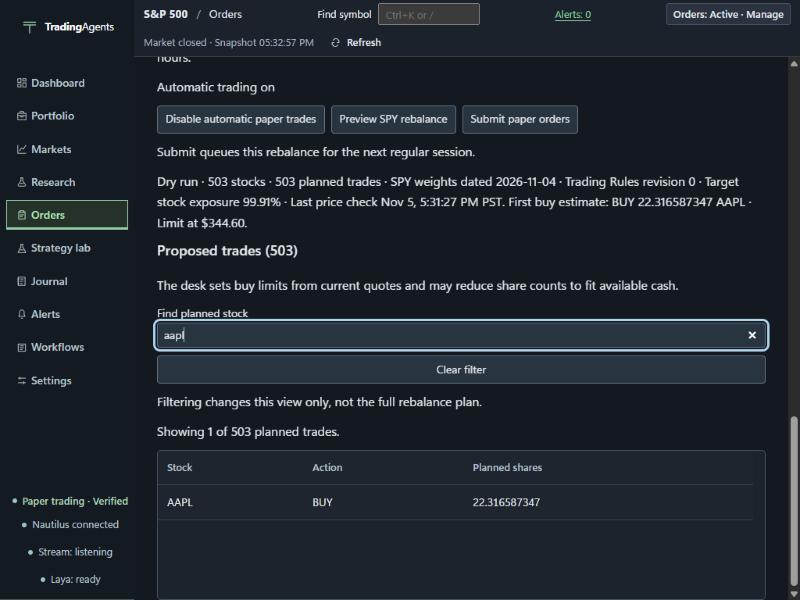
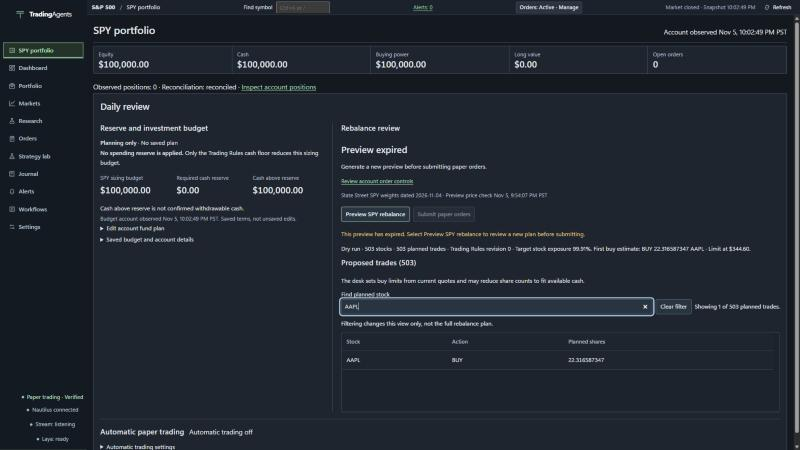
Group SPY preview search controls above the trade table
Preserve full-plan filtering, keyboard focus, scroll and submission guards. Record independent review and real 1080p evidence; refresh the guide capture and affected operating reference.

diff --git a/tradingagents/web/static/app.js b/tradingagents/web/static/app.js
@@ -3296,9 +3296,10 @@ function spyRebalanceMarkup(){
   (preview?.policyBlockers.length?'<details id="spy-rule-blockers" open><summary>Trading Rules block submission</summary><ul>'+preview.policyBlockers.map(reason=>'<li>'+esc(reason)+'</li>').join('')+'</ul></details>':'')+
   (preview?.trades.length?'<h3>Proposed trades ('+esc(preview.trades.length)+')</h3>'+
    '<p>The desk sets buy limits from current quotes and may reduce share counts to fit available cash.</p>'+
-   '<label for="spy-trade-query">Find planned stock<input id="spy-trade-query" type="search" data-list-query="spy-preview" value="'+esc(spyTradeQuery)+'" placeholder="Symbol, such as AAPL" aria-describedby="spy-trade-scope spy-trade-count"></label>'+
-   '<button id="spy-trade-clear" type="button">Clear filter</button><p id="spy-trade-scope">Filtering changes this view only, not the full rebalance plan.</p>'+
-   '<p id="spy-trade-count" role="status">Showing '+rows.count+' of '+preview.trades.length+' planned trades.</p>'+
+   '<div class="spy-trade-toolbar"><label for="spy-trade-query">Find planned stock<input id="spy-trade-query" type="search" data-list-query="spy-preview" value="'+esc(spyTradeQuery)+'" placeholder="Symbol, such as AAPL" aria-describedby="spy-trade-scope spy-trade-count"></label>'+
+   '<button id="spy-trade-clear" type="button">Clear filter</button>'+
+   '<p id="spy-trade-count" role="status">Showing '+rows.count+' of '+preview.trades.length+' planned trades.</p></div>'+
+   '<p id="spy-trade-scope">Filtering changes this view only, not the full rebalance plan.</p>'+
    '<div class="table-scroll spy-preview-trades" role="region" aria-label="Proposed SPY trades" tabindex="0"><table class="data-table">'+
    '<thead><tr><th scope="col">Stock</th><th scope="col">Action</th><th scope="col">Planned shares</th></tr></thead><tbody id="spy-trade-rows">'+rows.markup+'</tbody></table></div>':'')+
   '</section></div><section class="spy-automatic" aria-labelledby="spy-automatic-heading"><div class="spy-automatic-status"><h3 id="spy-automatic-heading">Automatic paper trading</h3><p role="status">'+esc(status)+'</p></div>'+

diff --git a/tradingagents/web/static/ui-orders.css b/tradingagents/web/static/ui-orders.css
@@ -76,7 +76,10 @@
 #universe-review .spy-source-note{color:var(--muted);font-size:var(--text-meta)}
 .spy-manual-review .spy-preview-trades{max-height:32rem;flex:none!important}
 .spy-manual-review>.basket-actions{margin-block:var(--space-2)}
-.spy-manual-review>#spy-trade-clear{align-self:flex-start}
+.spy-trade-toolbar{display:flex;align-items:end;flex-wrap:wrap;gap:var(--space-2)}
+.spy-trade-toolbar label{flex:1;min-width:0;margin:0}
+#universe-review .spy-trade-toolbar input{min-height:var(--control-height)!important}
+#universe-review .spy-trade-toolbar>p{display:flex;align-items:center;min-height:var(--control-height);font-size:var(--text-ui);margin:0!important}
 .spy-automatic{padding-top:var(--space-4);border-top:1px solid var(--line)}
 .spy-automatic-status{display:flex;align-items:baseline;flex-wrap:wrap;gap:var(--space-3)}
 .spy-automatic-status h3{margin:0}

diff --git a/docs/issues/2026-11-05-dogfood-spy-preview-toolbar.md b/docs/issues/2026-11-05-dogfood-spy-preview-toolbar.md
@@ -1,0 +1,55 @@
+# Dogfood: compact SPY proposed-trade review controls
+
+Status: complete for the scoped toolbar improvement, independently source-reviewed and observed on the real development desk at 1920 × 1080. No paper trades are authorized.
+
+## Observation and scope
+
+Baseline `a98afa6` on `nautilus`. The current loop brief and completed overview/account-exception items were read first; those checkpoints were not repeated. An actual retained, expired 503-trade preview placed search at y719.84, Clear at 761.84, scope text at 807.84, count at 842.94 and the table at 876.03. Stacked controls left little first-view room for proposed trades.
+
+One bounded item: group existing search, Clear and matching count immediately above the full table, keeping the scope explanation and material warnings visible. Preserve IDs, labels, native focus, bindings, full trades, table scrolling, financial math, preview identity/lifetime, authority and all workspaces. Primary owns edits and actual browser checks. No new backend, data, metrics, colors or smaller-layout work.
+
+Installed Impeccable Operate/layout guidance and the craft floor informed implementation; primary context had already run once. Reused the qualified official [Fidelity Positions research](https://www.fidelity.com/trading/trader-desktop-user-guide/positions) recorded in the [read-first issue](2026-11-05-dogfood-spy-read-first-overview.md#independent-upstream-research): group view controls directly above tabular evidence. This is an adapted grouping principle, not broker operation or feature parity. No new critique or score.
+
+## Implementation and independent scrutiny
+
+Layout assessment `wf_d75351b6-3c9` inspected the real supplied capture and adjacent source. It identified the vertical control stack as the material in-scope friction. Primary's baseline and post-change scoped layout detectors returned no findings; neither empty detector output nor source review establishes rendered acceptance.
+
+The toolbar is a wrapping flex row. Search takes remaining width; Clear and the live count align to the existing 36px control token. The unchanged view-only explanation follows, then the complete table. Existing control IDs, accessible label/descriptions, keyboard sequence, delegation and query retention remain. Removed the obsolete direct-child Clear rule. No paragraph caps or authority/financial changes.
+
+Fresh source review `wf_c6296851-fc5` found no actionable issue at:
+
+- `app.js`: `a05513312d8f126de53b89c039d7863900f185fa`
+- `ui-orders.css`: `e1a17a1a48fdfd310b023fefa1da32101b134273`
+
+The reviewer inspected primary and legacy SPY entries, filter/render/focus contracts, count/no-match behavior, table scroll and preview/authority predicates. It did not perform browser acceptance. Primary inspected the exact source diff and confirmed the scope remains grouping and alignment only.
+
+## Affected real-browser evidence
+
+Normal development URL on 8099; inspected actual viewport **1920 × 1080**. Normal source reload discarded the old session-only preview. One actual dry-run Preview generated a populated view; no preview, event, clock or account state was injected.
+
+| Path | Actual observation |
+| --- | --- |
+| Populated review | 503 planned trades. Search, Clear and count aligned at y717.84–753.84, all 36px high; search about 730px wide. Count and scope explanation remained visible. Table began at y796.94 and retained its 512px bounded scroll region. No horizontal page overflow. |
+| Native AAPL search | One actual AAPL BUY row, 22.316587347 shares; count **Showing 1 of 503 planned trades**. Filtering did not change the full plan. |
+| Ordinary update | Stored old root became disconnected; the same search input remained connected and focused, with AAPL and 1 of 503 retained. No forced replacement/event. |
+| Natural expiry | Status became **Preview expired**, Submit disabled, plan and search remained readable. Returned weights date 2026-11-04 and price-check time 5 November 2026 at 21:54:07 PST remained visible. No refresh merely for an image. |
+| Keyboard Clear | Native Tab reached `spy-trade-clear`; Enter cleared the query, restored all 503 rows/count, reset table scroll 0 and returned focus to `spy-trade-query`. Expired status/disabled Submit and automatic trading off remained. |
+| Native table scroll | A wheel action's immediate same-batch sample preceded wheel processing and reported 0; it is not a pass. Settled inspection showed scrollTop 500 with BRK.B/JPM/MU at the top, all 503 rows retained and main scroll 0. Both stored old root and table panel were disconnected, establishing retained table position through ordinary replacement. |
+
+The baseline was expired while the initial new sample was current. Geometry is qualified layout evidence, not an identical-state expiry comparison, benchmark or performance claim. The final real filtered capture shows natural expiry rather than concealing it.
+
+No approval, submission, cancel/replace, pause/resume, standing-authority change, fund save, research/model/simulation job, automated test/mock, package/build, new server, credential/private configuration read or production operation. Submit was enabled by the existing gate before expiry, never activated. Automatic trading stayed off. No-match, unavailable, blocked, empty/no-trade and alternate-entry states were source-reviewed, not newly live-exercised; prior observations are not silently promoted.
+
+## Guide, preservation and decision
+
+Updated the platform reference and affected operating reference. The installed reference matched its full tracked HEAD baseline after normalizing only CRLF; copied only that file and verified byte-for-byte. No installed-only change was overwritten.
+
+Raw ignored evidence in `.local-workspace/dogfood-20261105/`:
+
+- `spy-preview-toolbar-before-1080p.jpg`
+- `spy-preview-toolbar-full-after-1080p.jpg`
+- `spy-preview-toolbar-aapl-after-1080p.jpg`
+
+Promoted the filtered capture unchanged to `docs/images/spy-rebalance-preview.jpg`: actual 1920 × 1080, Browser-rendered 800 × 450, blob `9ad8fab692e13be91acacdc78f06b2c7d70a1966`, byte-identical to raw evidence and no EXIF/XMP/IPTC/comment segment. Primary inspected visible privacy: no account identifier, credential, private note or unrelated desktop. Real quantities, dates, expiry and disabled Submit are not repainted. Updated image provenance; the existing README caption still matches, so foreign README edits remain untouched.
+
+Application delta: **8 added/4 removed lines** across JavaScript/CSS; zero backend/test changes. JavaScript syntax and whitespace checks passed. Primary decision: accept this complete scoped toolbar batch on the independently reviewed source and observed affected paths, not full SPY release, broker execution or return parity. Commit locally on `nautilus`, no push. Preserve/exclude unrelated `README.md`, `docs/dogfood-loop.md` and deletion of `docs/issues/dogfood-loop-ledger.md`.

diff --git a/docs/images/README.md b/docs/images/README.md
@@ -9,41 +9,56 @@ no values or states were repainted.
 | Image | Captured | Source revision / viewport | What it demonstrates |
 | --- | --- | --- | --- |
 | `research-review.jpg` | 5 November 2026 | `753df7a`; 1024 × 768 browser viewport, 800 × 600 image | AAPL inspection, search separate from batch selection, result-status filters and coverage gaps |
-| `spy-rebalance-preview.jpg` | 5 November 2026 | `38b94f1`; 1024 × 768 browser viewport, 800 × 600 image | A real 503-trade preview with a view-only AAPL filter showing one row |
+| `spy-rebalance-preview.jpg` | 5 November 2026 | Based on `a98afa6`, app `a05513312d8f126de53b89c039d7863900f185fa`, CSS `e1a17a1a48fdfd310b023fefa1da32101b134273`; actual 1920 × 1080, 800 × 450 Browser capture | Compact search/Clear/count toolbar, one AAPL row from the complete 503-trade plan, naturally expired preview |
 | `spy-fund-plan.png` | 5 November 2026 | `7df8b5b`, app blob `5e9b27533a4498f94af9b65629556c4c5b8114c3`; real 1920 × 1080 viewport, 706 × 153 detail image | Compact reserve/SPY budget, secondary editing/details and native keyboard focus |
 | `spy-portfolio.jpg` | 5 November 2026 | Based on `f112f77`, app `96c3d807ff0e45e65be6a559041191d6c47c8f45`, command controls `29cf7f519a5a28b1acdcef73bc92e496a66ba4a4`; real 1920 × 1080 viewport, 800 × 450 Browser capture | Clear-state SPY review and the new account-control handoff link; no blocked state is pictured |
 
+`spy-rebalance-preview.jpg` is an unchanged full Browser screenshot. The actual
+page viewport was 1920 × 1080; the tool rendered 800 × 450. AAPL filtering shows one
+matching row without changing the 503-trade plan. The preview naturally expired
+while the affected check continued: its dates, expiry message and disabled Submit
+remain visible. Automatic trading is off. No preview was regenerated merely to
+stage this image. It matches ignored `spy-preview-toolbar-aapl-after-1080p.jpg`
+byte-for-byte, has no EXIF/XMP/IPTC/comment segment and Git blob
+`9ad8fab692e13be91acacdc78f06b2c7d70a1966`. Primary inspected visible privacy.
+The previous smaller-viewport, automatic-on preview remains historical raw evidence,
+not the current guide image.
+
 `spy-portfolio.jpg` is an unchanged full Browser screenshot from the accepted
 clear-state account-exception overview, not a cropped smaller layout. Its actual viewport
-was 1920 × 1080; the tool rendered it at 800 × 450. Fund and automatic settings
+was 1920 × 1080; the tool rendered 800 × 450. Fund and automatic settings
 are closed, automatic trading is off and Submit is disabled. The selected JPEG
 matches the ignored raw file byte-for-byte and has no EXIF/XMP/IPTC segment. Its
 Git blob is `c3387d93be9522ffc16be6736426f866dc5ddc95`. Primary inspected the
-visible image: no account identifier, credential, private note or unrelated
-desktop content. This is scoped overview evidence, not broker acceptance,
+visible image. This is scoped overview evidence, not broker acceptance,
 full-journey acceptance or return parity.
 
-The first two images predate the user's 1080p-only direction. They remain historical
-workflow examples, not acceptance evidence for smaller layouts going forward.
-The new detail image was captured with the Browser tool's region capture from the
-rendered 800 × 450 pane image: region (90, 42)–(796, 195). The actual page viewport
-remained 1920 × 1080. The crop removes surrounding navigation and blank space, not
-information inside the fund-plan section; it is not a smaller responsive layout.
+Only `research-review.jpg` remains a historical smaller-viewport example predating
+the user's 1080p-only direction. It is not acceptance evidence for smaller layouts
+going forward. The fund-plan detail image was captured with the Browser tool's
+region capture from the rendered 800 × 450 pane image: region (90, 42)–(796, 195).
+The actual page viewport remained 1920 × 1080. The crop removes surrounding navigation
+and blank space, not information inside the fund-plan section; it is not a smaller
+responsive layout.
 
-`spy-rebalance-preview.jpg` shows the pre-existing **Automatic trading on** state.
-`spy-fund-plan.png` shows the later **Automatic trading off** state. Neither capture
-enabled, disabled, approved, submitted or executed anything. The preview image is
-not broker acceptance; the fund-plan image is not a performance or return-parity claim.
+The selected SPY images show **Automatic trading off**. Neither selecting images
+nor filtering, Clear or disclosures enabled authority, approved, submitted or
+executed anything. The current toolbar check generated one actual dry-run preview
+to exercise the changed controls after normal source reload. A preview is not broker
+acceptance, performance evidence or a return-parity claim.
 
 Original ignored evidence under `.local-workspace/dogfood-20261105/`:
 
 - `research-status-axes-after.jpg`
-- `spy-preview-filter-after-aapl.jpg`
+- `spy-preview-filter-after-aapl.jpg` — historical smaller-viewport preview
 - `spy-fund-plan-focus-corrected-after-1080p.jpg` — full rendered pane image
 - `spy-fund-plan-focus-corrected-detail-1080p.png` — exact promoted region capture
 - `spy-primary-entry-after-1080p.jpg` — historical primary-entry capture
 - `spy-read-first-resting-1080p.jpg` — historical read-first overview
 - `spy-account-exceptions-clear-1080p.jpg` — exact current promoted clear-state overview
+- `spy-preview-toolbar-before-1080p.jpg` — control-stack baseline
+- `spy-preview-toolbar-full-after-1080p.jpg` — populated unfiltered toolbar
+- `spy-preview-toolbar-aapl-after-1080p.jpg` — exact current promoted filtered preview
 
 Acceptance records:
 
@@ -54,6 +69,7 @@ Acceptance records:
 - [Primary SPY entry and navigation](../issues/2026-11-05-dogfood-spy-primary-workspace.md)
 - [Read-first SPY daily review](../issues/2026-11-05-dogfood-spy-read-first-overview.md)
 - [SPY account exceptions and handoff](../issues/2026-11-05-dogfood-spy-account-exceptions.md)
+- [Compact proposed-trade toolbar](../issues/2026-11-05-dogfood-spy-preview-toolbar.md)
 
 When a pictured workflow changes, replace its guide image after affected
 verification and update this note. Preserve raw evidence separately; do not create

diff --git a/.agents/skills/use-tradingagents/references/portfolio-orders-journal.md b/.agents/skills/use-tradingagents/references/portfolio-orders-journal.md
@@ -82,7 +82,7 @@ Current tabs: **Ticket & Blotter**, **Fills & Fees**, **Human Baskets**, **SPY R
 
 **Account submission exceptions.** SPY shows the shared account-only conditions for submission availability, unverified connection, broker trading block, paused new orders and incomplete sync or recovery. A listed condition disables **Submit paper orders** and stays visible outside disclosures. It is not a human-ticket approval requirement. **Review account order controls** opens **Orders → Ticket & Blotter**, focuses the existing account controls and keeps that pane position through ordinary updates, separately for each Orders tab. Navigation changes no pause, approval or authority. Preview remains a separate review action; absence of a listed exception does not establish a complete SPY preflight pass. The server rechecks freshness, working commitments and exact bindings. Blocked-state presentation remains source-only when no actual exception is present; do not manufacture one for a walkthrough.
 
-**Find planned stock** filters preview rows only. The count distinguishes matching rows from the complete plan. Clear or no-match changes no trades, preview identity or authority. An expired retained preview explains **Preview** refresh, disables Submit and keeps the plan/filter readable. Observed lookup and natural expiry did not create a preview, enable authority or place trades. Use current preview facts; screenshots show dated examples.
+**Find planned stock**, **Clear filter** and the matching-row count share a compact wrapping toolbar above the full proposed-trade table. The view-only scope explanation remains visible below the toolbar. Search filters preview rows only; the count distinguishes matching rows from the complete plan. Clear returns focus to search. Clear or no-match changes no trades, preview identity or authority. An expired retained preview explains **Preview** refresh, disables Submit and keeps the plan/filter readable. Earlier lookup and natural-expiry observations did not create a preview, enable authority or place trades. Use current preview facts; screenshots show dated examples.
 
 ### Ticket & Blotter record types
 

diff --git a/docs/platform-reference.md b/docs/platform-reference.md
@@ -223,8 +223,10 @@ SPY Rebalance and Option Instructions. The top-bar **Orders: Active · Manage**
 (or paused equivalent) selects Ticket & Blotter and focuses account order controls;
 it is navigation, not a gate change.
 
-SPY Rebalance's **Find planned stock** filters displayed preview rows only; the
-full plan and its authority bindings stay unchanged. Natural expiry keeps the
+The SPY preview groups **Find planned stock**, **Clear filter** and the matching-row
+count in a compact wrapping toolbar directly above the complete trade table.
+Filtering changes displayed rows only; the full plan and its authority bindings
+stay unchanged. Natural expiry keeps the
 preview readable, disables submission and asks for a new **Preview**.
 
 The path is:
